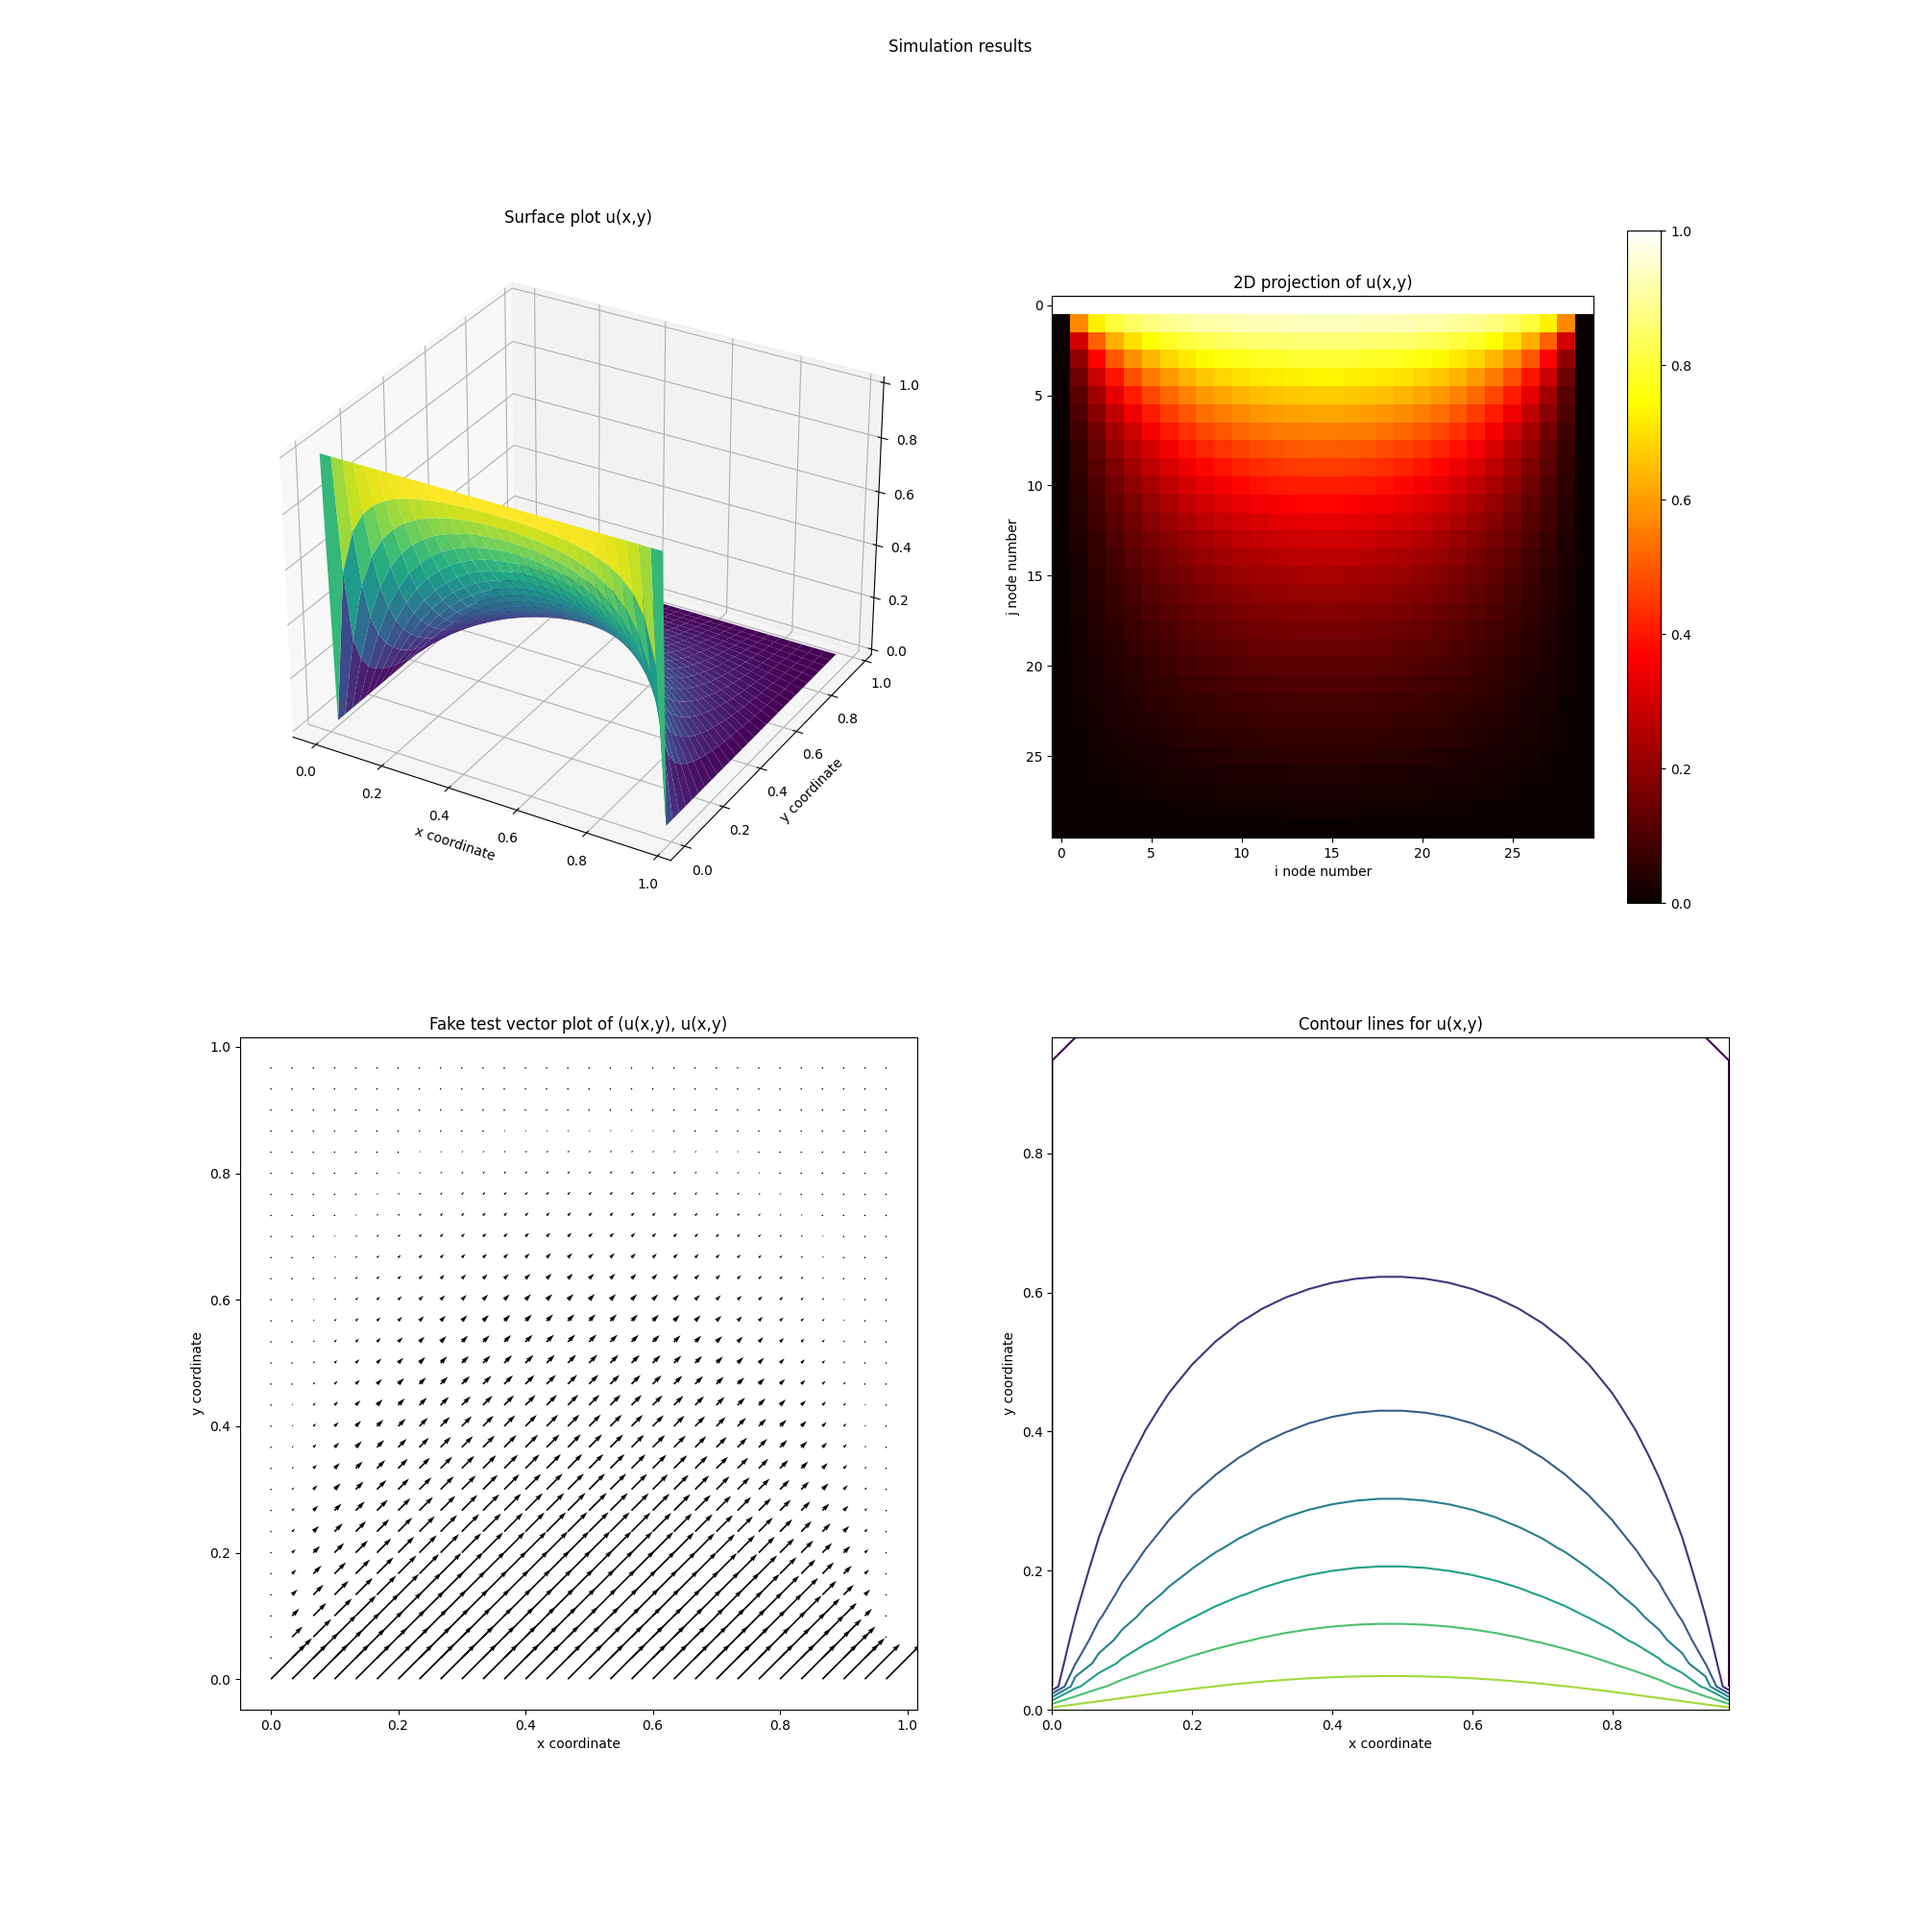
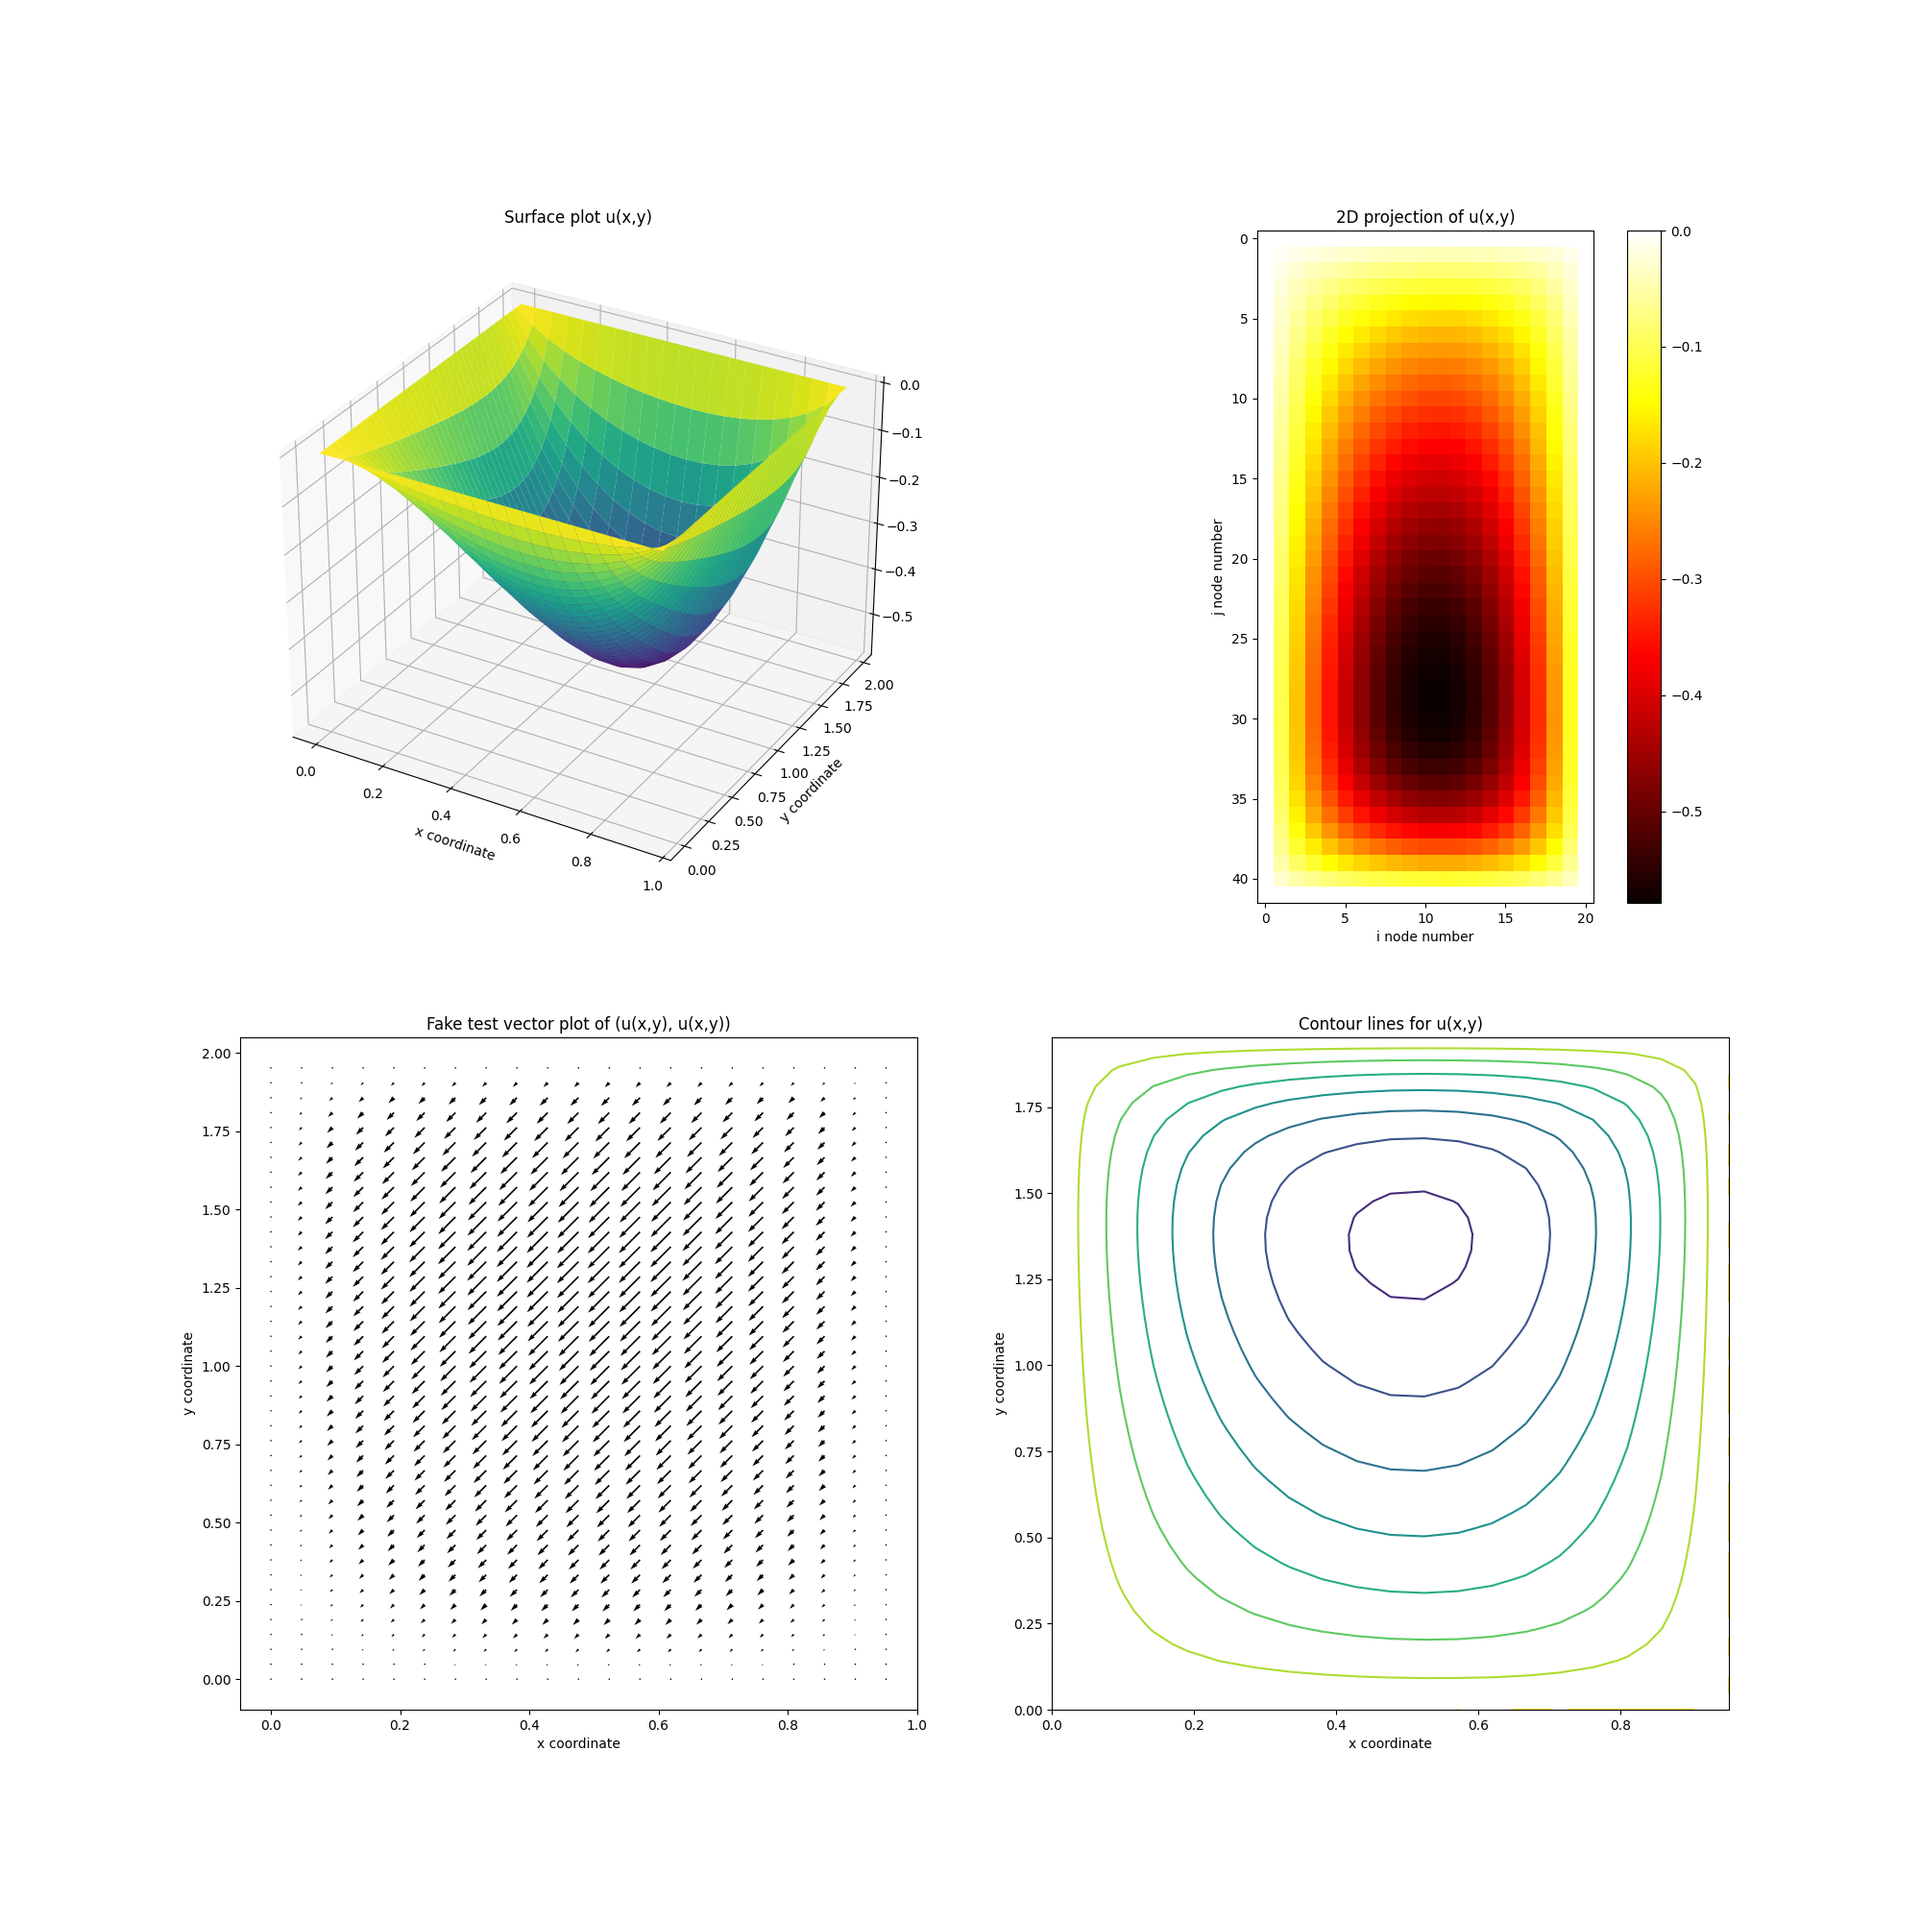
Fixed a bug in the plotter

diff --git a/templates/index.html b/templates/index.html
@@ -50,11 +50,12 @@
                 if(retval)
                     window.location.href = retval[retval.length-1]; 
             }
-            else if (xhr.readyState == XMLHttpRequest.DONE && xhr.status == 400){
+            else if (xhr.readyState == XMLHttpRequest.DONE){
                 var data = JSON.parse(xhr.responseText);
                 document.getElementById('response_field').innerHTML = data; 
                 document.getElementById("rhs_coeffs").value = '0';
                 document.getElementById("rhs_choice").selectedIndex = 2;
+                document.getElementById("domain").value = '[0,1]x[0,1]'
             }   
         }
     }

diff --git a/Simulator.py b/Simulator.py
@@ -1,6 +1,7 @@
 from Poisson import Poisson
 import DiscPrms as dsc 
 import FEM
+import math
 import sys
 from RHS import polynomialRHS
 from BC import constBC
@@ -183,6 +184,10 @@ def run(mylist, no_plot=True):
         print("NOTE: There is  bug in the FEM solver. \n Works if rhs=0")
         print("Boundary conditions are incorrectly incorporated")
 
+
+        if ((not math.isclose(x_min,0.0)) or (not math.isclose(x_max,1.0)) or (not math.isclose(y_min, 0.0)) or (not math.isclose(y_max, 1.0))):
+            return -1
+
         parameters = dsc.DiscPrms(nnx=nno_x, nny=nno_y, dt=1000, x_max=x_max, y_max=y_max, t_max=2000, x_min=x_min, y_min=y_min)
         grid = dsc.Grid2d(parameters)
         # For now, assume only Dirichlet BC's 
@@ -192,8 +197,7 @@ def run(mylist, no_plot=True):
         
         rhs_val = parse_rhs(values['Right hand side'], values['rhs_coeff'].strip())
 
-        if ((len(rhs_val) != 1) or (rhs_val[0] != 0)):
-            print("Values: ", len(rhs_val), " and ", rhs_val[0])
+        if ((len(rhs_val) != 1) or (rhs_val[0] != 0) ):
             return -1
 
         sim.rhs.attachRHS(parse_rhs(values['Right hand side'], values['rhs_coeff'].strip()))                

diff --git a/comboplot.py b/comboplot.py
@@ -3,11 +3,15 @@
 import matplotlib.pyplot as plt
 import numpy as np
 
-def plot(solu, delta, save_to_file=False, x_min=0.0, x_max=1.0):
+def plot(solu, delta, save_to_file=False, x_min=0.0, x_max=1.0, y_min=0.0, y_max=1.0, dy=-1.0):
 
-        x = y = np.arange(x_min, x_max, delta)
+        x = np.arange(x_min, x_max, delta)
+ 
+        if (dy < 0.0): 
+            dy = delta
+        y = np.arange(y_min, y_max, dy)     
+        
         X, Y = np.meshgrid(x, y)
-
         fig = plt.figure(figsize=(20, 20))
 #        fig.suptitle("Simulation results")
 
@@ -26,7 +30,7 @@ def plot(solu, delta, save_to_file=False, x_min=0.0, x_max=1.0):
         plt.colorbar()
 
         ax = fig.add_subplot(2, 2, 3)
-        ax.set_title('Fake test vector plot of (u(x,y), u(x,y)')
+        ax.set_title('Fake test vector plot of (u(x,y), u(x,y))')
         ax.set_ylabel('y coordinate')
         ax.set_xlabel('x coordinate')
         plt.quiver(X, Y, solu, solu)

diff --git a/Poisson.py b/Poisson.py
@@ -80,8 +80,8 @@ class Poisson:
                 self.solu[i, j] = self.phi[i * self.nnox + j]
         
         if not self.noplot:
-            plotter.plot(self.solu, (self.xmax - self.xmin)/self.nnox, save_to_file=True, x_min=self.xmin, x_max=self.xmax)
-
+            plotter.plot(self.solu, (self.xmax - self.xmin)/self.nnox, save_to_file=True, 
+            x_min=self.xmin, x_max=self.xmax, y_min = self.ymin, y_max= self.ymax, dy=(self.ymax - self.ymin)/self.nnoy)
     
     # Compare nodal values of solution, report L2 error
     def compare2analytic(self):

diff --git a/main.py b/main.py
@@ -41,7 +41,7 @@ def run_sim():
     mylist = json.loads(input_data.decode())
     retval = sim.run(mylist, no_plot=False)
     if (retval == -1):
-        ret = ['<h3>FEM only applicable for constant right hand side equal to zero </h3>']
+        ret = ['<h3>FEM only works for constant right hand side equal to zero and domain [0,1 x 0,1]  </h3>']
         template_context = jsonify(ret)
         return make_response(template_context, 400)        
        
